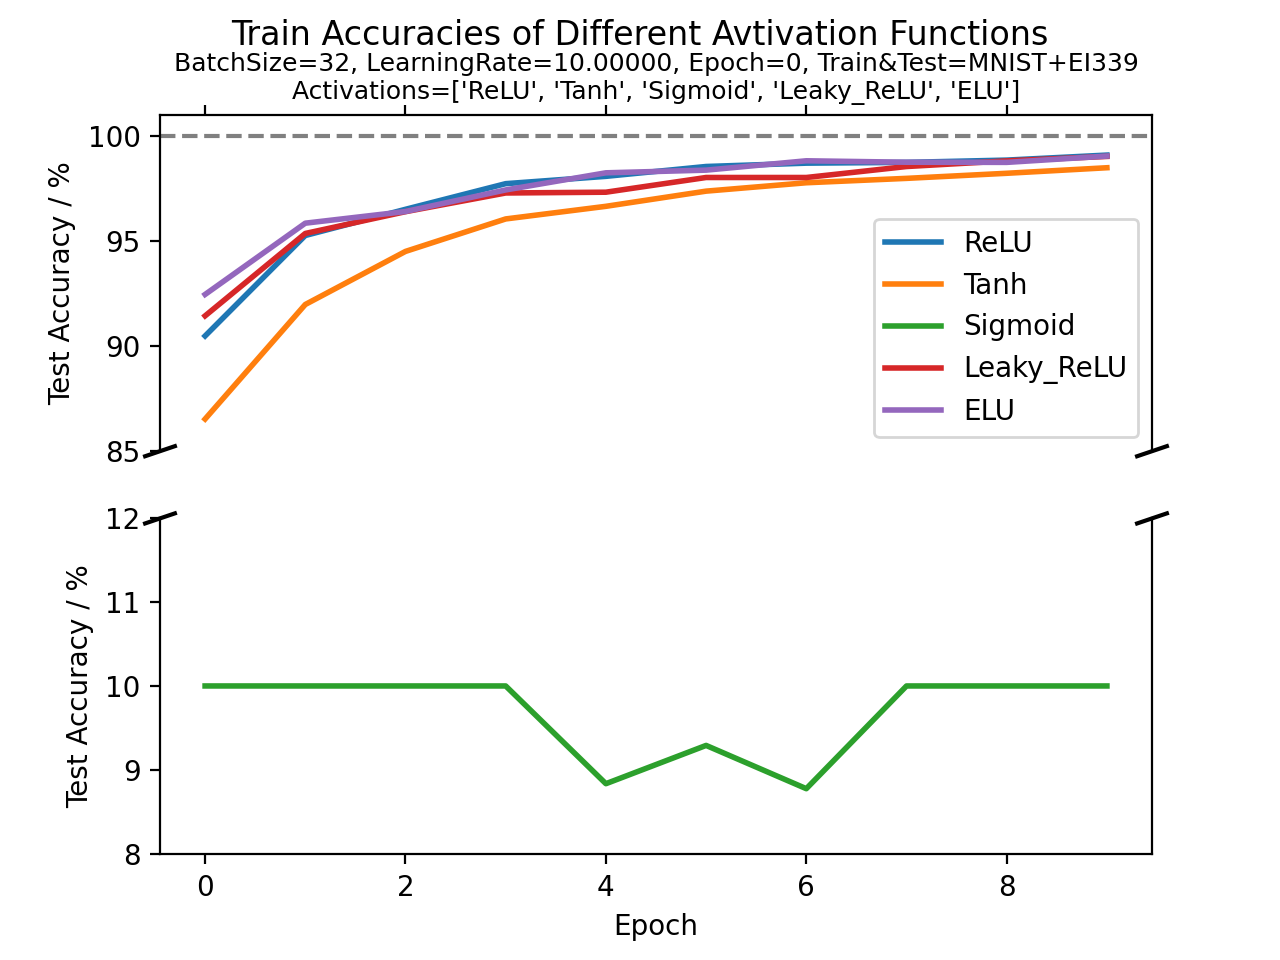
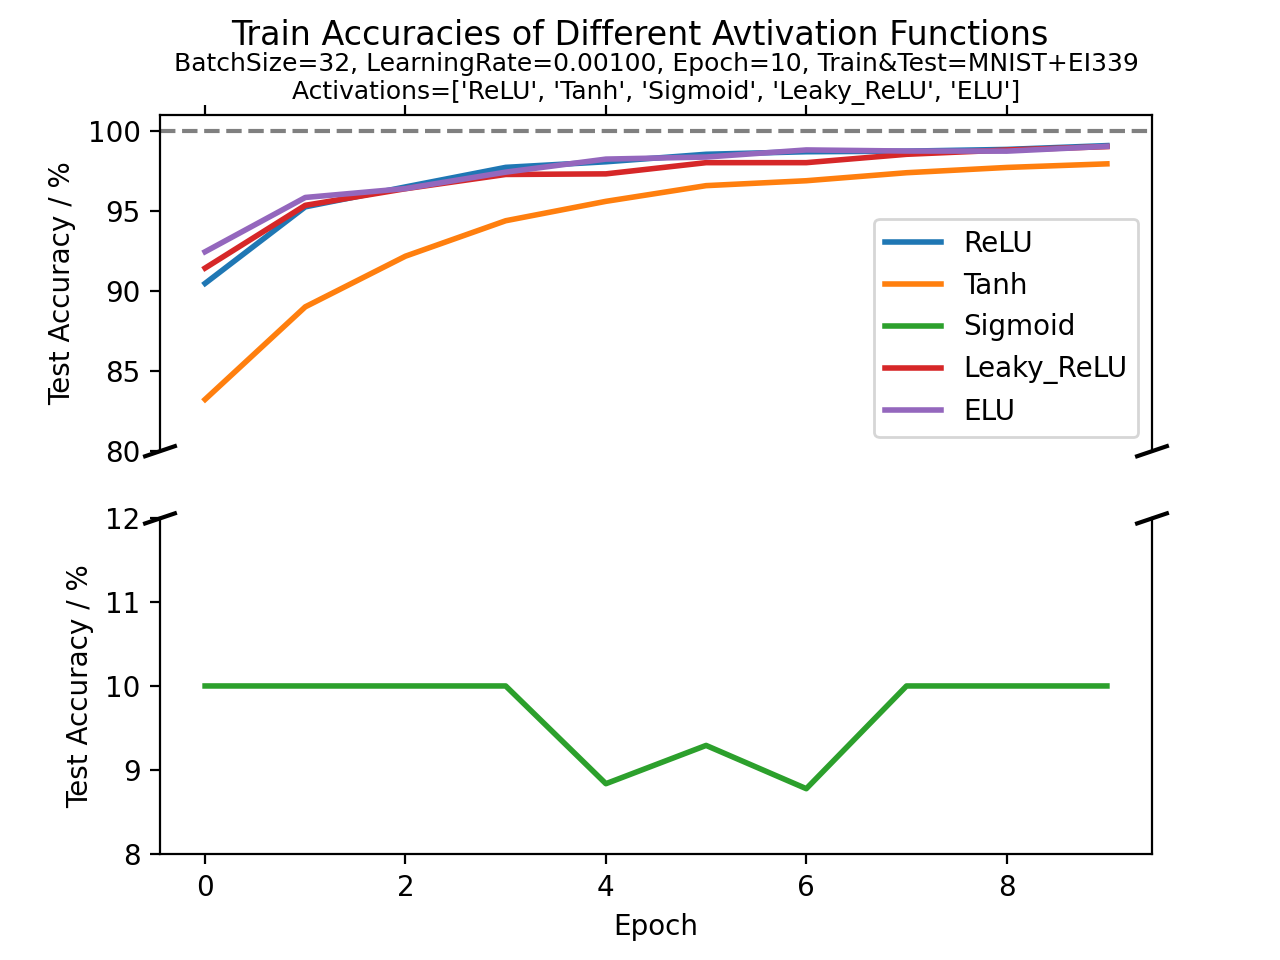
finish structure exp (debugged)

diff --git a/run/LeNet5_structure.py b/run/LeNet5_structure.py
@@ -45,7 +45,7 @@ print("All %d Setting(s) Trained" % len(structure_settings))
 plt.close("all")
 fig, (ax, ax2) = plt.subplots(2, 1, sharex=True)
 ax2.set_ylim(8, 12)  # outliers only
-ax.set_ylim(85, 101)  # most of the data
+ax.set_ylim(80, 101)  # most of the data
 # hide the spines between ax and ax2
 ax.spines['bottom'].set_visible(False)
 ax2.spines['top'].set_visible(False)
@@ -72,7 +72,7 @@ ax.axhline(y=100, linestyle="--", color="grey")
 ax2.set_xlabel("Epoch")
 ax.set_ylabel("Test Accuracy / %"), ax2.set_ylabel("Test Accuracy / %")
 ax.set_title("BatchSize=%d, LearningRate=%.5f, Epoch=%d, Train&Test=%s\nActivations=%r"
-             % (BS, EP, LR, d_set, list(ACTIVATIONS_NAMES.values())),
+             % (BS, LR, EP, d_set, list(ACTIVATIONS_NAMES.values())),
              fontsize=9)
 fig.suptitle("Train Accuracies of Different Avtivation Functions")
 ax.legend()

diff --git a/digit_classifiers/networks_structures.py b/digit_classifiers/networks_structures.py
@@ -31,9 +31,9 @@ class LeNet5(torch.nn.Module):
         if 0 == self.activation_idx:  # relu activation
             func = torch.nn.functional.relu
         elif 1 == self.activation_idx:  # HardTanh activation
-            func = torch.nn.functional.hardtanh
+            func = torch.tanh
         elif 2 == self.activation_idx:  # sigmoid activation
-            func = torch.nn.functional.sigmoid
+            func = torch.sigmoid
         elif 3 == self.activation_idx:  # leaky_relu activation
             func = torch.nn.functional.leaky_relu  # negative slope = 0.01
         else:  # 4 == self.activation_idx:  # elu activation
